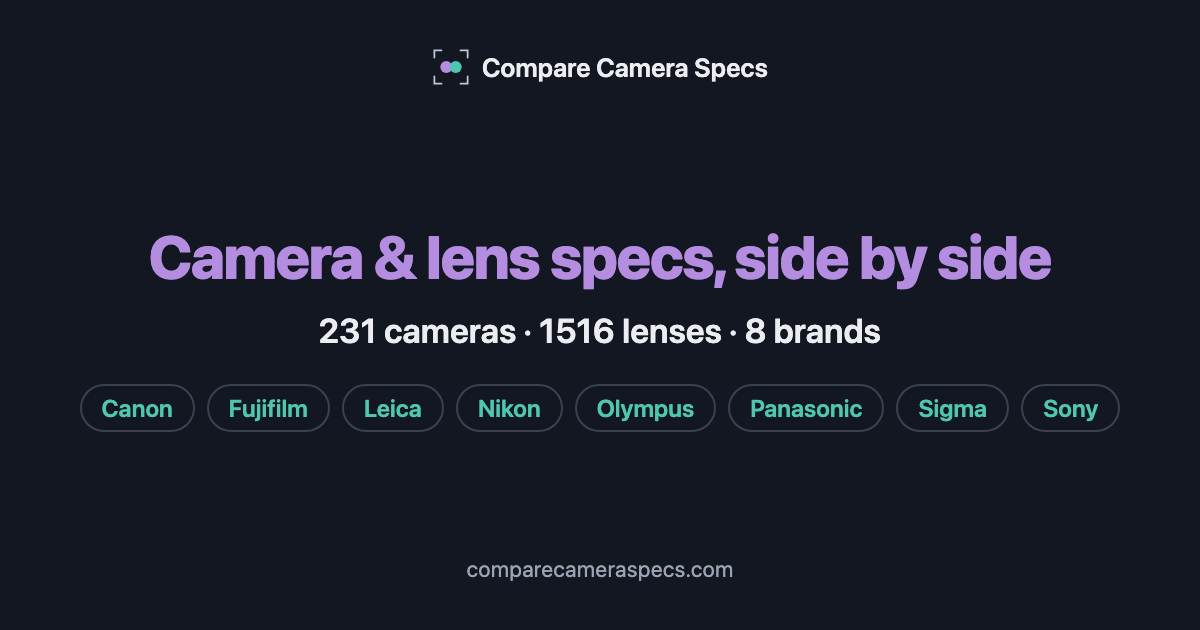
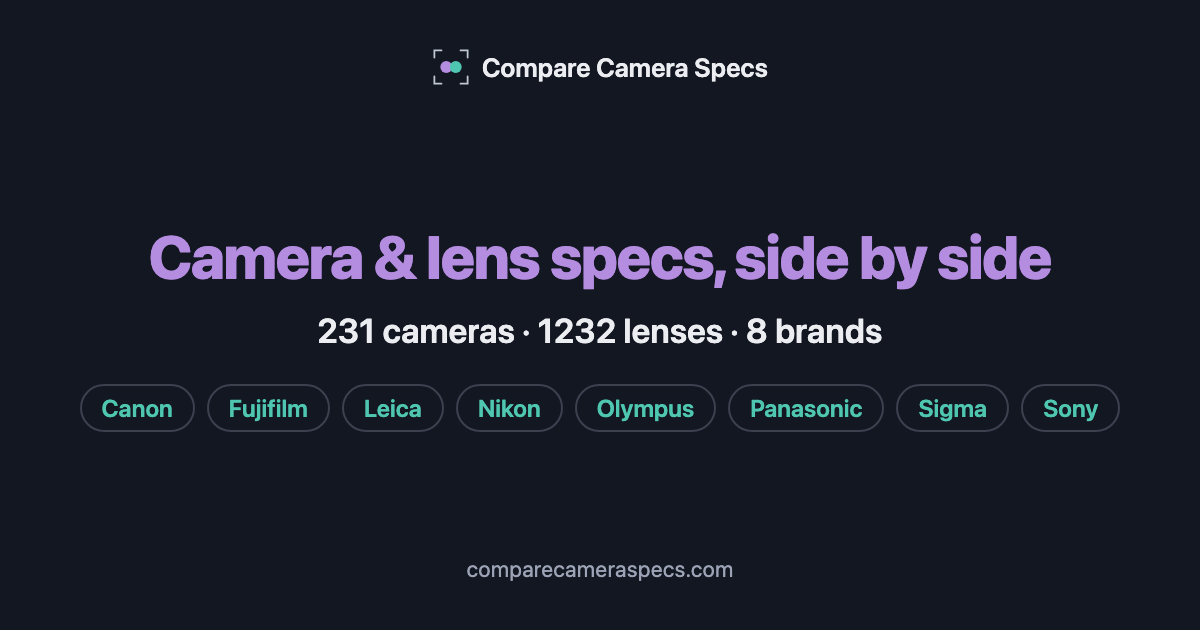
Site totals count each lens once (1,516 entries -> 1,232 lenses)
Third-party lenses are stored per brand, so the same L-Mount or MFT lens can
sit on two or three brand pages. The home share card and its alt text now
count distinct mount + slug pairs (uniqueItemCount); per-brand counts are
unchanged. Owner request on PR #78.

Claude-Session: https://claude.ai/code/session_01FYKXhtYCHKNL3CJLW6oPDG

Changed region(s): [[0.2775, 0.4825, 0.74, 0.5429]]

diff --git a/scripts/generate-seo.js b/scripts/generate-seo.js
@@ -1226,6 +1226,19 @@ function compareShareCard(brandNames, nCams) {
   };
 }
 
+// Site-wide totals count each product once. Third-party lenses are stored
+// per brand, so one L-Mount lens can sit on the Panasonic, Leica and Sigma
+// pages (and an MFT lens on Panasonic and Olympus) under the same slug. The
+// same slug on a different mount is a different lens, so the key is
+// mount + slug, never the slug alone.
+function uniqueItemCount(brandData, kind) {
+  const keys = new Set();
+  for (const data of Object.values(brandData)) {
+    for (const [slug, item] of Object.entries(data[kind])) keys.add(`${item.mount}:${slug}`);
+  }
+  return keys.size;
+}
+
 function homeShareCard(brandNames, nCams, nLenses) {
   return {
     path: 'og/home.png',
@@ -1774,13 +1787,13 @@ function buildSite() {
     if (index) sitemapPaths.push(m.file);
   }
   const cmp = path.join('compare', 'index.html');
-  const totalCams = Object.values(brandData).reduce((n, d) => n + Object.keys(d.CAMERAS).length, 0);
+  const totalCams = uniqueItemCount(brandData, 'CAMERAS');
   let cmpHtml = fs.readFileSync(path.join(ROOT, cmp), 'utf8');
   cmpHtml = withHeadBlock(cmpHtml, compareHeadBlock(site, brandNames, totalCams, addCard(compareShareCard(brandNames, totalCams))), cmp);
   cmpHtml = withBodyBlock(cmpHtml, compareBodyBlock(matchups, brandNames), cmp);
   files.set(cmp, cmpHtml);
 
-  const totalLenses = Object.values(brandData).reduce((n, d) => n + Object.keys(d.LENSES).length, 0);
+  const totalLenses = uniqueItemCount(brandData, 'LENSES');
   const homeCard = addCard(homeShareCard(brandNames, totalCams, totalLenses));
 
   sitemapPaths.push('about.html', 'privacy.html');
@@ -1835,4 +1848,4 @@ if (require.main === module) {
   console.log(`generate-seo: ${files.size} artifacts (${written} written, ${removed} stale removed)`);
 }
 
-module.exports = { buildSite, cardHash, vsCardHTML, infoCardHTML, shareTags, CARD_W, CARD_H, LANDING_CARD_ORDER, ALL_BRANDS_MOSAIC, orderLandingBrands, allBrandsPhotoHTML, siteConfig, curatedPairs, successorPairKeys, resolvePins, withPins, PINNED_VS_PAIRS, SUCCESSOR_INDEX_SINCE, relatedPairs, vsPageHTML, vsSummary, vsSummaryFacts, resolveMatchups, crossVsPageHTML, crossTitle, CROSS_BRAND_MATCHUPS, compareHeadBlock, compareBodyBlock, brandHeadBlock, rootHeadBlock, brandBodyBlock, rootBodyBlock, withHeadBlock, withBodyBlock, sitemapXML, robotsTxt, buildAll, SEO_BEGIN, SEO_END, SEO_BODY_BEGIN, SEO_BODY_END, ID_HEAD_BEGIN, ID_HEAD_END, ID_HEADER_BEGIN, ID_HEADER_END, ID_FOOTER_BEGIN, ID_FOOTER_END, identityToken, logoMark, cleanUrl, cleanHref, themeToggleHTML, collectReferences, citationText, refHostname, REFERENCE_ROWS, referenceRowsHTML };
+module.exports = { buildSite, uniqueItemCount, cardHash, vsCardHTML, infoCardHTML, shareTags, CARD_W, CARD_H, LANDING_CARD_ORDER, ALL_BRANDS_MOSAIC, orderLandingBrands, allBrandsPhotoHTML, siteConfig, curatedPairs, successorPairKeys, resolvePins, withPins, PINNED_VS_PAIRS, SUCCESSOR_INDEX_SINCE, relatedPairs, vsPageHTML, vsSummary, vsSummaryFacts, resolveMatchups, crossVsPageHTML, crossTitle, CROSS_BRAND_MATCHUPS, compareHeadBlock, compareBodyBlock, brandHeadBlock, rootHeadBlock, brandBodyBlock, rootBodyBlock, withHeadBlock, withBodyBlock, sitemapXML, robotsTxt, buildAll, SEO_BEGIN, SEO_END, SEO_BODY_BEGIN, SEO_BODY_END, ID_HEAD_BEGIN, ID_HEAD_END, ID_HEADER_BEGIN, ID_HEADER_END, ID_FOOTER_BEGIN, ID_FOOTER_END, identityToken, logoMark, cleanUrl, cleanHref, themeToggleHTML, collectReferences, citationText, refHostname, REFERENCE_ROWS, referenceRowsHTML };

diff --git a/tests/data/landing.test.js b/tests/data/landing.test.js
@@ -7,9 +7,9 @@
 // from several brands' showcase cameras rather than the logo.
 const { test } = require('node:test');
 const assert = require('node:assert/strict');
-const { buildAll, orderLandingBrands, allBrandsPhotoHTML, LANDING_CARD_ORDER, ALL_BRANDS_MOSAIC } =
+const { buildAll, orderLandingBrands, allBrandsPhotoHTML, uniqueItemCount, LANDING_CARD_ORDER, ALL_BRANDS_MOSAIC } =
   require('../../scripts/generate-seo');
-const { brandDirs } = require('../helpers/load-brand');
+const { brandDirs, loadBrand } = require('../helpers/load-brand');
 
 const root = buildAll().get('index.html');
 const cards = (root.match(/<li class="brand-card"[\s\S]*?<\/li>/g) || []);
@@ -72,4 +72,29 @@ test('landing: with fewer than two photos the tile falls back to the logo mark, 
     { slug: 'sony', heroCamera: { imageUrl: null } },
   ]);
   assert.ok(/<svg/.test(one) && !/<img/.test(one));
+});
+
+// Third-party lenses are stored per brand, so one L-Mount lens can appear on
+// the Panasonic, Leica and Sigma pages. The site-wide total must count it
+// once, or the headline number inflates with every mirrored copy.
+test('site totals: a lens on several brand pages counts once; the same slug on another mount counts again', () => {
+  const lens = mount => ({ mount });
+  const brandData = {
+    panasonic: { LENSES: { 'laowa-10mm': lens('l'), 'lumix-s-50': lens('l') } },
+    leica: { LENSES: { 'laowa-10mm': lens('l') } },
+    sony: { LENSES: { 'laowa-10mm': lens('e') } },
+  };
+  assert.equal(uniqueItemCount(brandData, 'LENSES'), 3);
+});
+
+test('site totals: the home share card states the unique lens count, not the per-page sum', () => {
+  const unique = new Set();
+  let sum = 0;
+  for (const b of brandDirs()) {
+    for (const [slug, l] of Object.entries(loadBrand(b).data.LENSES)) { unique.add(`${l.mount}:${slug}`); sum++; }
+  }
+  assert.ok(unique.size < sum, 'sanity: some lenses are listed on more than one brand page');
+  const about = buildAll().get('about.html');
+  const alt = (about.match(/<meta property="og:image:alt" content="([^"]*)"/) || [])[1] || '';
+  assert.match(alt, new RegExp(`\\b${unique.size} lenses\\b`));
 });

diff --git a/about.html b/about.html
@@ -15,7 +15,7 @@
   <meta property="og:image" content="https://comparecameraspecs.com/og/home.png">
   <meta property="og:image:width" content="1200">
   <meta property="og:image:height" content="630">
-  <meta property="og:image:alt" content="Compare 231 cameras and 1516 lenses from 8 brands side by side">
+  <meta property="og:image:alt" content="Compare 231 cameras and 1232 lenses from 8 brands side by side">
   <meta name="twitter:card" content="summary_large_image">
   <meta name="twitter:image" content="https://comparecameraspecs.com/og/home.png">
   <script>

diff --git a/index.html b/index.html
@@ -88,7 +88,7 @@
   <meta property="og:image" content="https://comparecameraspecs.com/og/home.png">
   <meta property="og:image:width" content="1200">
   <meta property="og:image:height" content="630">
-  <meta property="og:image:alt" content="Compare 231 cameras and 1516 lenses from 8 brands side by side">
+  <meta property="og:image:alt" content="Compare 231 cameras and 1232 lenses from 8 brands side by side">
   <meta name="twitter:card" content="summary_large_image">
   <meta name="twitter:image" content="https://comparecameraspecs.com/og/home.png">
   <script>

diff --git a/privacy.html b/privacy.html
@@ -15,7 +15,7 @@
   <meta property="og:image" content="https://comparecameraspecs.com/og/home.png">
   <meta property="og:image:width" content="1200">
   <meta property="og:image:height" content="630">
-  <meta property="og:image:alt" content="Compare 231 cameras and 1516 lenses from 8 brands side by side">
+  <meta property="og:image:alt" content="Compare 231 cameras and 1232 lenses from 8 brands side by side">
   <meta name="twitter:card" content="summary_large_image">
   <meta name="twitter:image" content="https://comparecameraspecs.com/og/home.png">
   <script>

diff --git a/openspec/changes/add-canon-missing-thirdparty-lenses/PROGRESS.md b/openspec/changes/add-canon-missing-thirdparty-lenses/PROGRESS.md
@@ -1,6 +1,6 @@
 # Progress — Canon missing third-party lenses + price consistency
 
-**Resume at:** 5.3 (unique lens counts)
+**Resume at:** 5.4 (refresh-camera-data skill: B&H rule)
 
 **Owner answers 2026-10-22 (review of PR #78):** Laowa RL lengths - flag in the PR description, owner reviews; USD-only lenses stay USD-only (no ratio estimates); TTArtisan weight ranges - keep skipping, keep researching per-mount weights; Tamron 16-50 Sony E - in this PR, research for correctness; landing/About counts - count unique lenses; refresh-camera-data skill - write the B&H rule into it in this PR; Meike 50mm f/1.7 X stays $130. Also asked for a published review listing of every lens this PR adds, with sources and flags.
 
@@ -47,6 +47,8 @@ mount, and are excluded.
 **4.2 done 2026-10-22:** /canon/ lens mode previewed - dropdown groups Sigma 11, Tamron 4, Samyang 3, Viltrox 1, TTArtisan 15, 7Artisans 9, Laowa 34, Voigtländer 5, Thypoch 1, Yongnuo 2 (85 third-party, = 39 + 46); spot-checked Laowa 180 / Nokton 50 f/1 / Tamron 16-50 and 7Artisans 6mm / Simera 28 / Samyang 85 RF: photos load, USD shows, AF Motor Type "Manual" / "Linear Motor", no console errors. Image check: all 41 new Canon image URLs load (one Wikimedia 429 re-checked OK).
 
 **4.1 done 2026-10-22:** npm test 849/849; npm run test:links pass 2 / fail 0 (run twice: after the Canon batches and again after the Samyang price changes); warnings are bot blocks / rate limits only (B&H 403, Wikimedia 429).
+
+**5.3 done 2026-10-22:** site-wide totals (home share card + its alt text on the landing/About/Privacy pages) now count each product once, keyed by mount + slug (`uniqueItemCount` in scripts/generate-seo.js): 1,516 lens entries -> 1,232 unique lenses (284 are the same lens on two or three brand pages); cameras unchanged at 231. Per-brand counts stay per page. Two tests in tests/data/landing.test.js pin it.
 
 ## Batches
 

diff --git a/openspec/changes/add-canon-missing-thirdparty-lenses/tasks.md b/openspec/changes/add-canon-missing-thirdparty-lenses/tasks.md
@@ -28,7 +28,7 @@
 
 - [x] 5.1 Flag the Laowa RL lengths (17 entries) in the PR description for owner review
 - [x] 5.2 Tamron 16-50mm F2.8 A: re-verify the Canon and Sony E entries (Sony was already added in the Sony pass)
-- [ ] 5.3 Landing/About lens counts: count each lens once (same mount + same id)
+- [x] 5.3 Landing/About lens counts: count each lens once (same mount + same id)
 - [ ] 5.4 refresh-camera-data skill: third-party USD = B&H rule
 - [ ] 5.5 TTArtisan cross-mount weight ranges: stay skipped; look for per-mount weights
 - [ ] 5.6 Review listing (Artifact) of every lens added in this PR, with sources and flags
